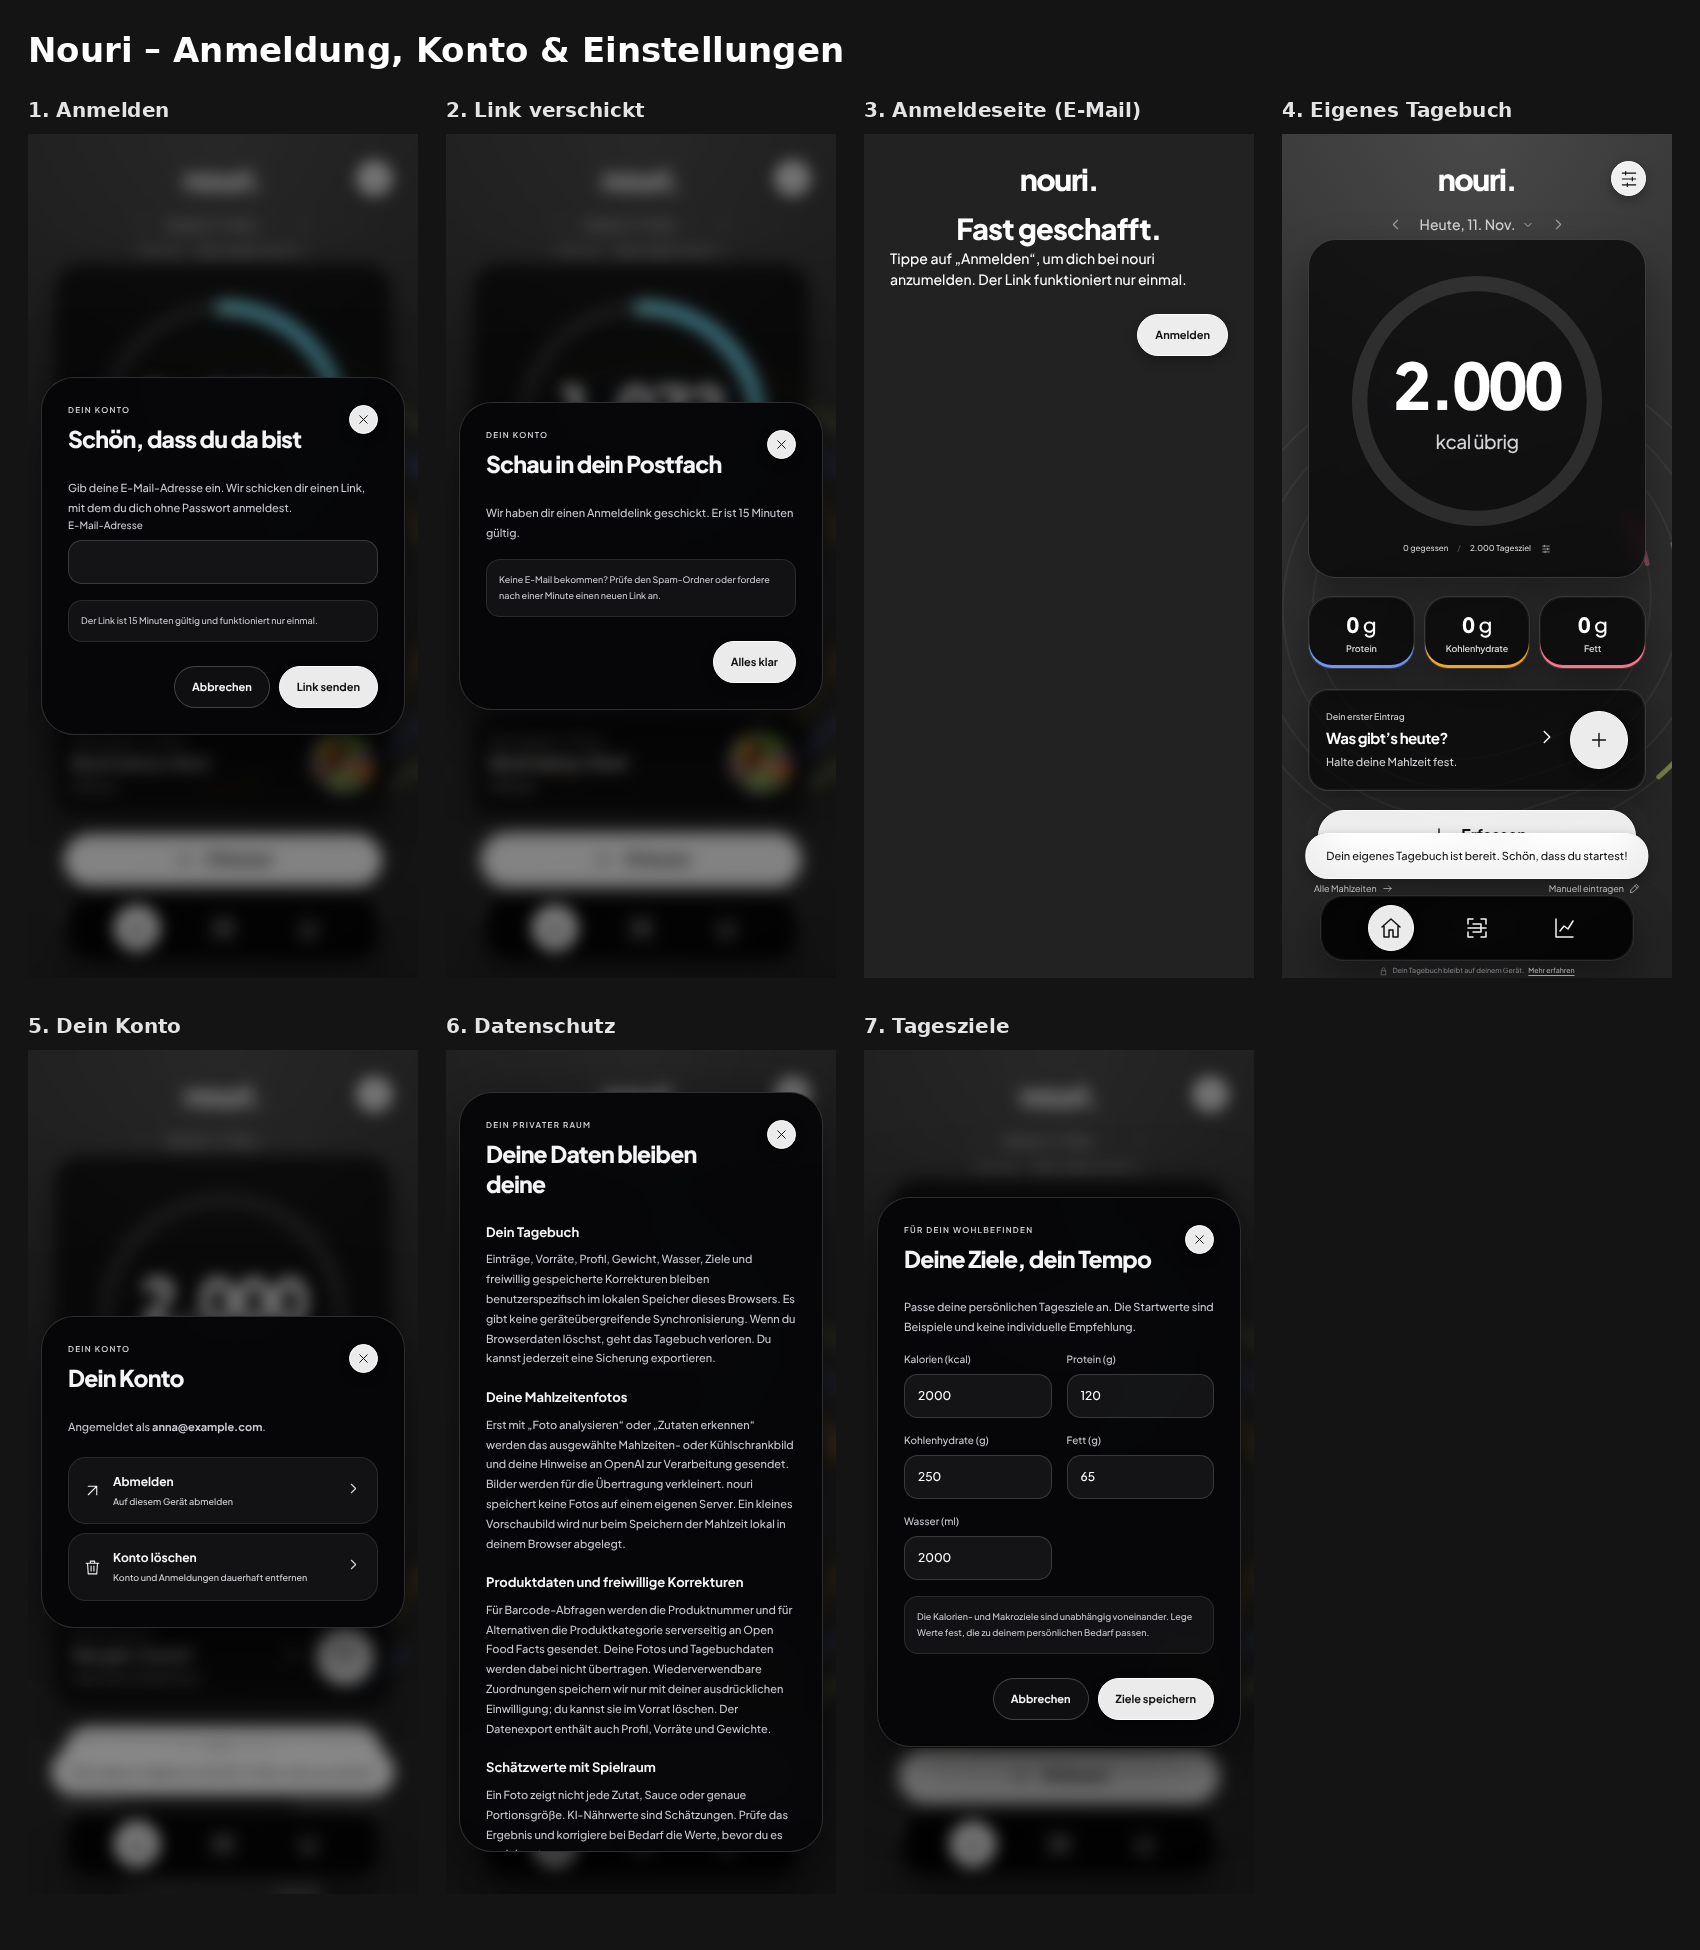
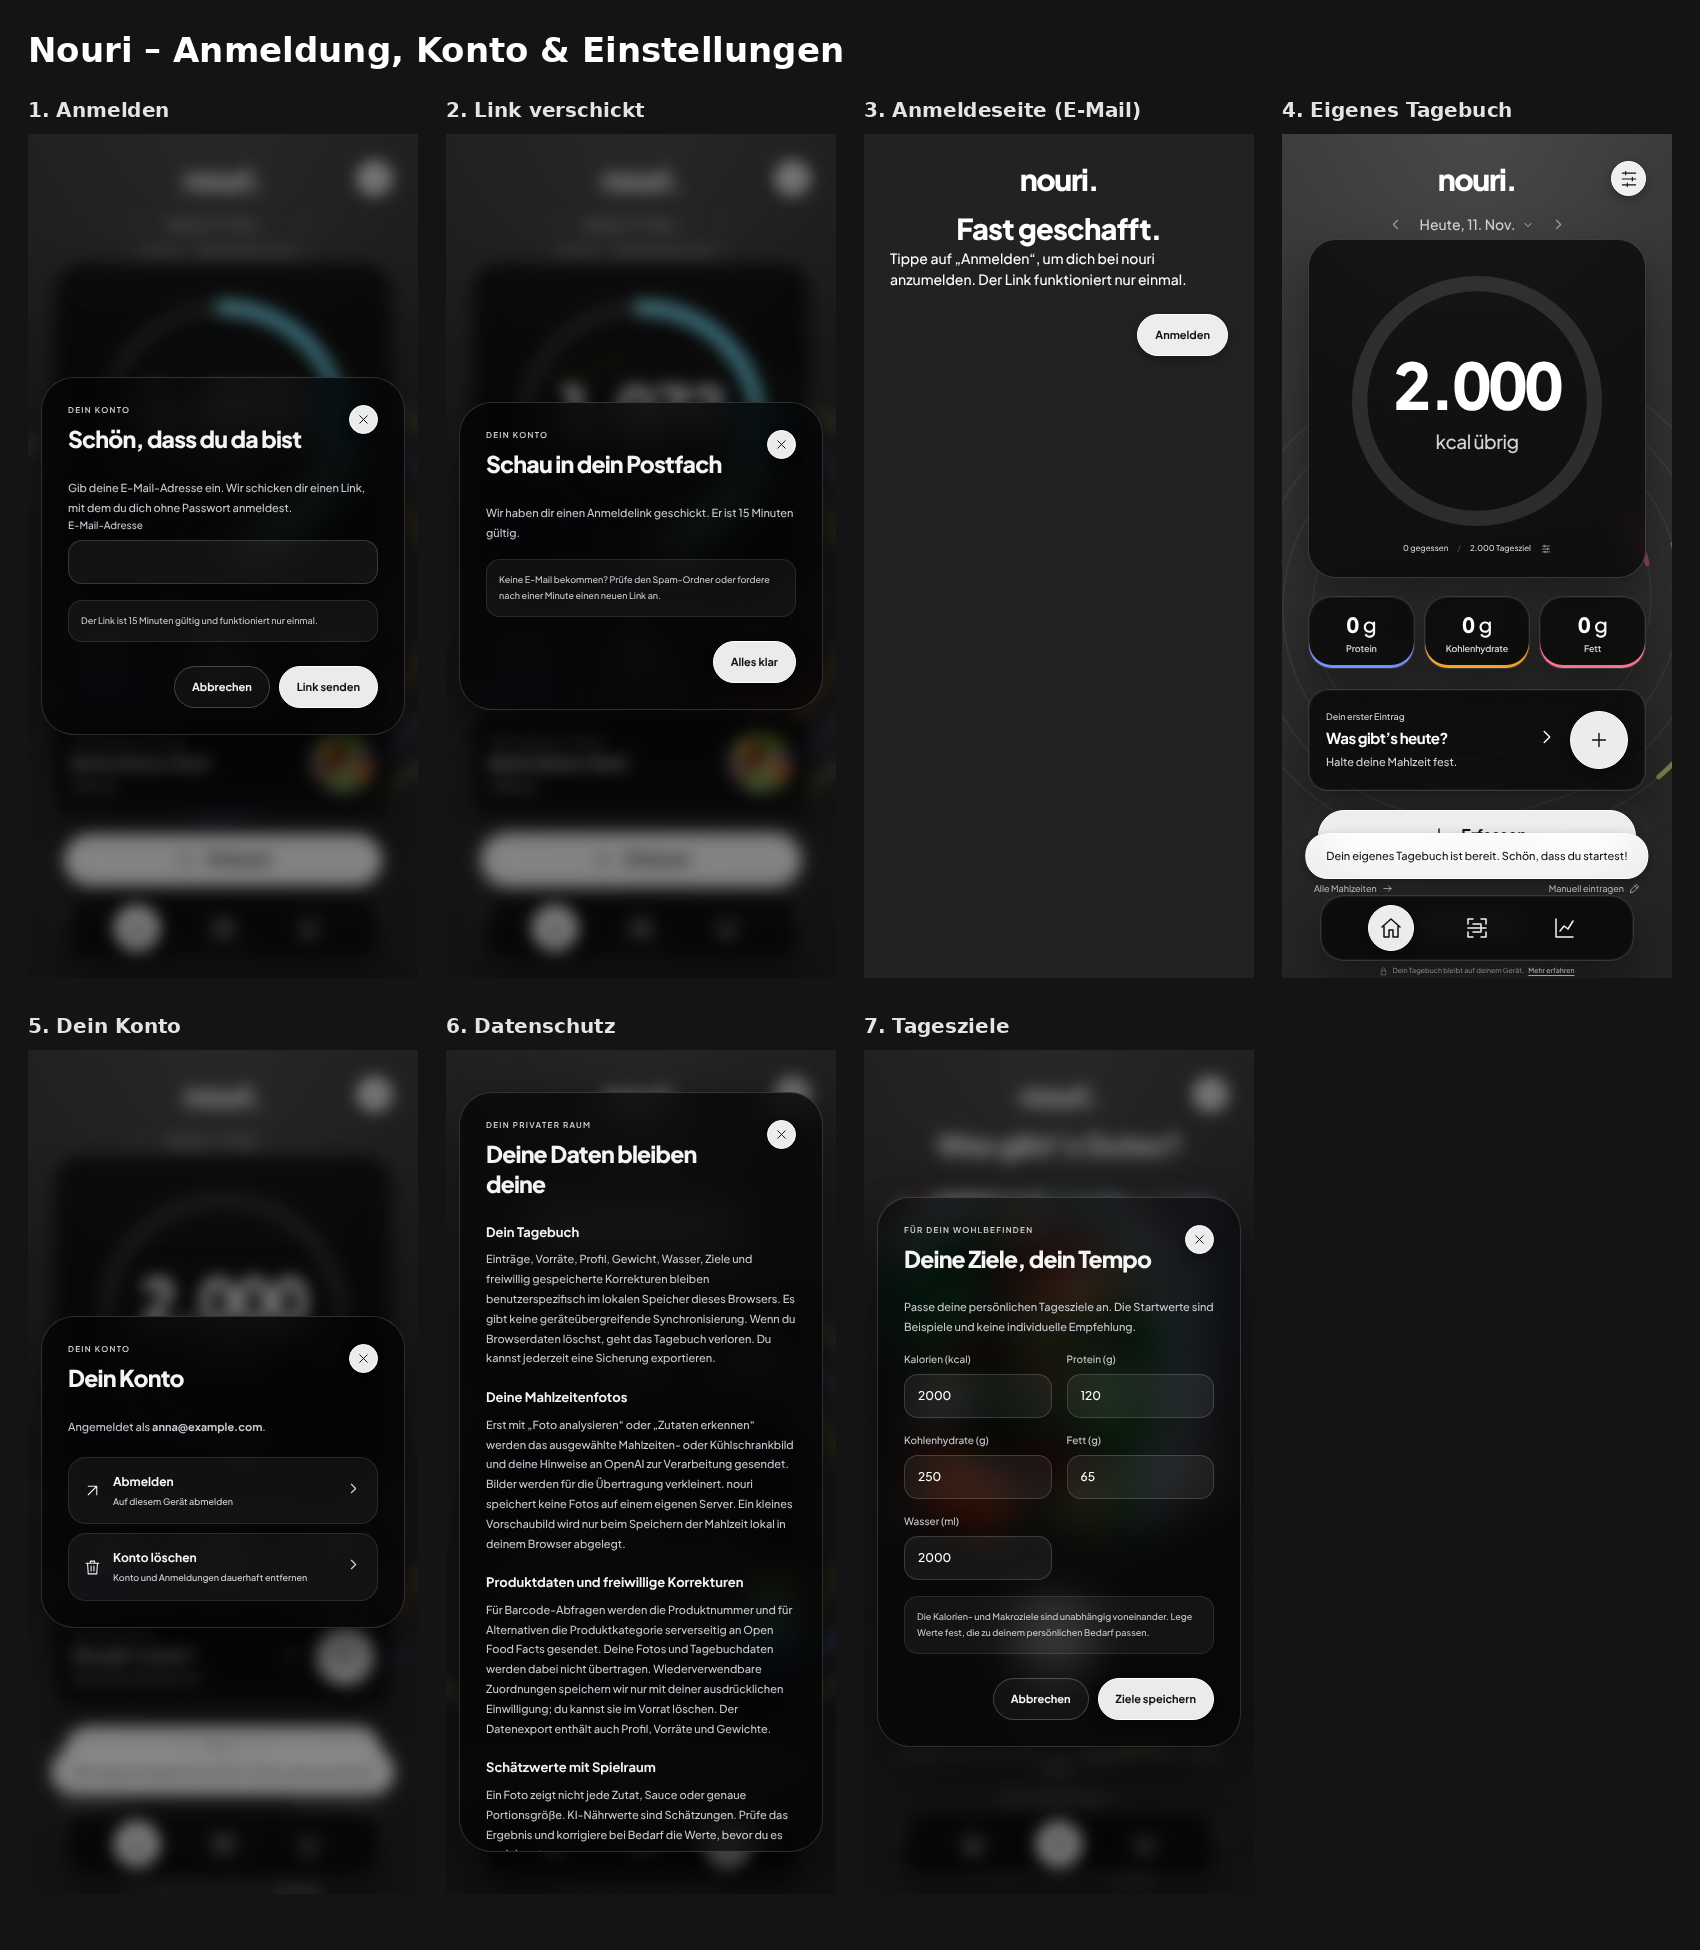
Einheitlicher Kachel-Look in der ganzen App
Alle Kacheln (Verlauf, Erfassen, Analyse, Tagebuch), Navigation,
Dialoge und die Laufbahn-Fokus-Karte nutzen jetzt denselben Look wie
die Startseite: 70 % Schwarz, leicht durchsichtig, feiner heller Rand,
Weichzeichner. Leer-Hinweise in Dialogen bleiben ohne Rahmen.

Claude-Session: https://claude.ai/code/session_0162wcJoWWh3DLszW2Hd6XaN

diff --git a/web/theme.css b/web/theme.css
@@ -47,11 +47,10 @@ button:focus-visible,a:focus-visible,input:focus-visible,select:focus-visible,te
 .scan-status.ready{color:#e4e4e7}
 
 /* Flächen aus schwarzem Glas */
-.glass,.calorie-card,.macro-card,.latest-meal-card,.last-meal .empty-state,.meal-row,.stat,.analysis-food,.bottom-nav,.scan-capture{
-  background:var(--glass-dark);border:1px solid var(--glass-edge);box-shadow:var(--glass-shadow);
-  -webkit-backdrop-filter:blur(16px) saturate(180%);backdrop-filter:blur(16px) saturate(180%)}
+.glass,.calorie-card,.macro-card,.latest-meal-card,.last-meal .empty-state,.meal-row,.stat,.analysis-food,.bottom-nav,.scan-capture,.details-grid>div,#diary-view .empty-state{
+  background:var(--glass-clear);border:1px solid rgba(255,255,255,.18);box-shadow:var(--glass-shadow);
+  -webkit-backdrop-filter:blur(10px) saturate(170%);backdrop-filter:blur(10px) saturate(170%)}
 .glass:before,.latest-meal-card:before,.analysis-food:before,.scan-preview:after{border-color:rgba(255,255,255,.06)}
-.latest-meal-card:hover{background:rgba(20,20,24,.6)}
 
 /* Icons und Hauptaktionen in weißem Glas */
 .settings-trigger,.modal-heading>.icon-button,.meal-thumb,.latest-meal-placeholder,.water-controls button,.nav-item.active,.primary,.shutter,.sample-photo-label{
@@ -99,7 +98,6 @@ button:focus-visible,a:focus-visible,input:focus-visible,select:focus-visible,te
 .meal-category,.meal-info p,.meal-calories small{color:var(--muted)}
 .sample-badge{color:#e4e4e7;background:rgba(255,255,255,.12)}
 .meal-row .icon-button{color:var(--soft)}
-.details-grid>div{background:rgba(255,255,255,.05);border:1px solid rgba(255,255,255,.1)}
 .details-grid span{color:var(--muted)}
 .stat small,.stat strong span{color:var(--muted)}
 
@@ -117,7 +115,6 @@ button:focus-visible,a:focus-visible,input:focus-visible,select:focus-visible,te
 .dot{background:var(--accent-lime)}
 
 /* Erfassen und Analyse */
-.scan-capture{background:rgba(3,3,4,.7)}
 .analysis-macros{border-top-color:rgba(255,255,255,.12)}
 .analysis-macros>div+div{border-left-color:rgba(255,255,255,.12)}
 .analysis-item{border-bottom-color:rgba(255,255,255,.1)}
@@ -142,7 +139,7 @@ footer button{color:#d4d4d8}
 .danger:hover{background:rgba(255,111,138,.28)}
 
 /* Dialoge und Formulare */
-dialog{background:rgba(6,6,8,.97);color:#f4f4f5;border:1px solid var(--glass-edge);box-shadow:0 24px 80px rgba(0,0,0,.6)}
+dialog{background:rgba(3,3,4,.7);-webkit-backdrop-filter:blur(18px) saturate(170%);backdrop-filter:blur(18px) saturate(170%);color:#f4f4f5;border:1px solid var(--glass-edge);box-shadow:0 24px 80px rgba(0,0,0,.6)}
 dialog::backdrop{background:rgba(0,0,0,.45)}
 #modal-content p{color:#c9c9d0}
 .field{color:#c9c9d0}
@@ -179,12 +176,8 @@ dialog::backdrop{background:rgba(0,0,0,.45)}
 .day-details>summary:hover,.scan-options>summary:hover{color:#fff}
 .nav-item.active:hover{background:var(--glass-white);color:#111}
 
-/* Startseite und Tagebuch: durchsichtige Kacheln, die Laufbahn scheint durch (ohne Spiegeleffekte) */
-#dashboard-view .calorie-card,#dashboard-view .macro-card,#dashboard-view .latest-meal-card,#dashboard-view .glass,#dashboard-view .last-meal .empty-state,
-#diary-view .meal-row,#diary-view .glass,#diary-view .details-grid>div,#diary-view .stat,#diary-view .empty-state{
-  background:var(--glass-clear);border:1px solid rgba(255,255,255,.18);
-  -webkit-backdrop-filter:blur(10px) saturate(170%);backdrop-filter:blur(10px) saturate(170%)}
-#dashboard-view .latest-meal-card:hover{background:rgba(3,3,4,.8)}
+/* Alle Kacheln: gleicher, leicht durchsichtiger Look wie auf der Startseite */
+.latest-meal-card:hover{background:rgba(3,3,4,.8)}
 
 /* Schrift und Kacheln wie im Laufbahn-Entwurf: Plus Jakarta Sans, kräftige, eng gesetzte Zahlen */
 body{font-weight:500}
@@ -233,7 +226,7 @@ body.track-focusing .theme-track [data-lane]:not(.is-focus){opacity:.14}
 body.track-focusing .lane-base.is-focus{stroke:rgba(255,255,255,.6);stroke-width:3;stroke-dasharray:.6 1.4}
 body.track-focusing .lane-fill.is-focus{filter:drop-shadow(0 0 8px currentColor)}
 .track-focus{position:fixed;inset:0;z-index:40;display:flex;align-items:flex-end;justify-content:center;padding:24px 16px calc(24px + env(safe-area-inset-bottom));animation:nouri-fade .3s ease-out}
-.track-focus-card{width:min(420px,100%);background:rgba(6,6,8,.92);border:1px solid var(--glass-edge);border-radius:28px;padding:22px;box-shadow:0 24px 60px rgba(0,0,0,.5);-webkit-backdrop-filter:blur(16px);backdrop-filter:blur(16px)}
+.track-focus-card{width:min(420px,100%);background:var(--glass-clear);border:1px solid var(--glass-edge);border-radius:28px;padding:22px;box-shadow:0 24px 60px rgba(0,0,0,.5);-webkit-backdrop-filter:blur(16px);backdrop-filter:blur(16px)}
 .track-focus-card h2{font-size:20px;font-weight:800;margin-top:6px}
 .track-focus-value{display:block;font-size:34px;font-weight:800;letter-spacing:-1.2px;line-height:1.15;margin-top:4px}
 .track-focus-value[data-lane="kcal"]{color:var(--accent-lime)}
@@ -273,3 +266,4 @@ body.track-focusing .lane-fill.is-focus{stroke-width:12}
 .track-legend-row span:last-child{font-size:12px;line-height:1.2}
 .track-focus .button.primary{min-height:44px;padding-top:10px;padding-bottom:10px}
 body.track-focusing .theme-track{transform:translateY(1vh) scale(.68)}
+#diary-view .empty-state,.last-meal .empty-state{border-radius:20px}

diff --git a/docs/design/README.md b/docs/design/README.md
@@ -4,8 +4,7 @@ Nouri nutzt das Glas-Design „A2 · Schwarzes Glas“:
 
 - Ganz neutrales Schwarzgrau (ohne Farbstich) mit leichtem Lichtschein von oben, ohne Spiegeleffekte
 - Hintergrund „Laufbahn“: vier Stadion-Bahnen, die sich im Lauf des Tages füllen – außen Kalorien (Limette), dann Protein (Blau), Kohlenhydrate (Orange), Fett (Koralle). 100 % = Tagesziel erreicht, dann leuchtet die Bahn. Darüber läuft auf jeder Bahn eine Lichtspur. Alles bewusst verblasst, damit es im Hintergrund bleibt.
-- Navigation und Dialoge aus schwarzem Glas, ohne Glanz oder Spiegelung
-- Kacheln auf Startseite und im Tagebuch dunkel und leicht durchsichtig (70 % Schwarz mit Weichzeichner), die Laufbahn scheint durch
+- Alle Kacheln, die Navigation, Dialoge und die Fokus-Karte im selben Look: 70 % Schwarz, leicht durchsichtig, feiner heller Rand, Weichzeichner, ohne Glanz oder Spiegelung
 - Icons und Hauptaktionen (Erfassen, aktiver Tab, Einstellungen) in weißem Glas
 - Farbakzente: Kalorienring Limette → Himmelblau, Makros Blau / Orange / Koralle
 - Laufbahn-Fokus: Ein Tipp auf eine Makro-Kachel oder den Kalorienring holt die Bahnen nach vorne. Die Inhalte treten zurück, die ganze Runde erscheint verkleinert, die gewählte Bahn leuchtet, das fehlende Stück ist gepunktet. Eine kompakte Karte mit runden Ecken zeigt „noch X g“, „gegessen von Ziel · %“ und alle vier Ziele (2 × 2) zum Umschalten. Schließen mit „Fertig“, Escape oder Tipp daneben.
